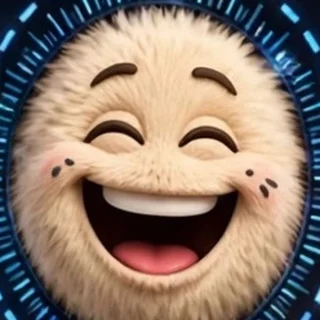
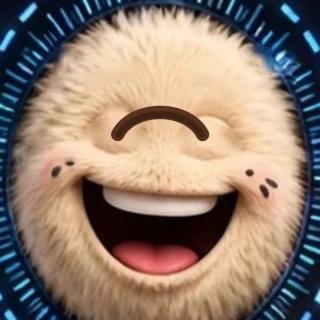
Site : visage Rire à un seul œil, vidéo famille sans son
Claude-Session: https://claude.ai/code/session_01HmDuQiYFhyot1Lrx4rF6nG

diff --git a/BeyaBears-Site/index.html b/BeyaBears-Site/index.html
@@ -271,7 +271,7 @@
         <h2 class="title" style="font-size:clamp(1.8rem,3.6vw,3rem)">Un compagnon pour toute la famille.</h2>
         <p class="lead">L’enfant qui appelle ses parents, la grand-mère qui voit ses petits-enfants, le papa qui suit une recette, l’ado qui joue, la future maman qui se détend.</p>
       </div>
-      <div class="film rise"><video muted loop playsinline preload="none" poster="media/famille.jpg" aria-label="Dix scènes de vie avec BeyaBear’s, puis une grand-mère en appel vidéo avec ses petits-enfants dans l’écran de sa peluche"><source data-src="media/famille.mp4" type="video/mp4"></video></div>
+      <div class="film rise"><video muted loop playsinline preload="none" poster="media/famille.jpg" data-silent aria-label="Dix scènes de vie avec BeyaBear’s, puis une grand-mère en appel vidéo avec ses petits-enfants dans l’écran de sa peluche"><source data-src="media/famille.mp4" type="video/mp4"></video></div>
       <p class="note">Visuels marketing, à titre indicatif. Les applications et marques tierces (YouTube, WhatsApp…) sont montrées comme exemples d’usage et appartiennent à leurs propriétaires respectifs.</p>
     </div>
   </section>
